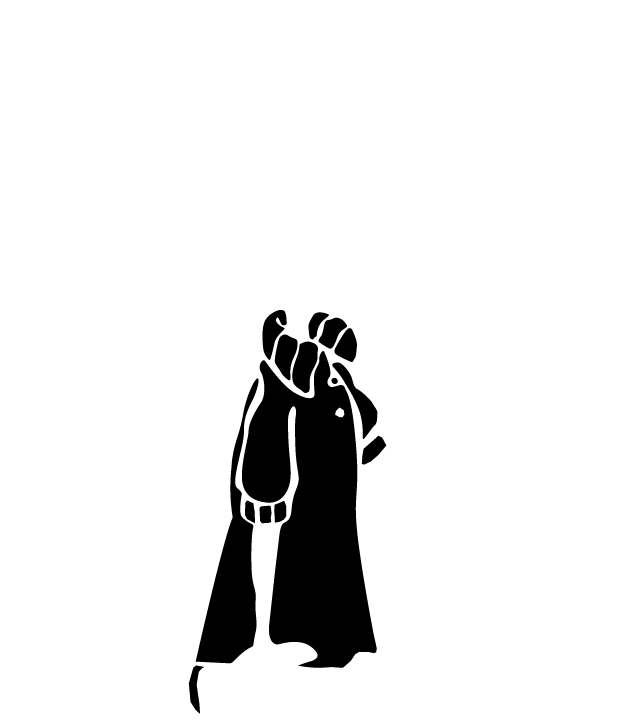
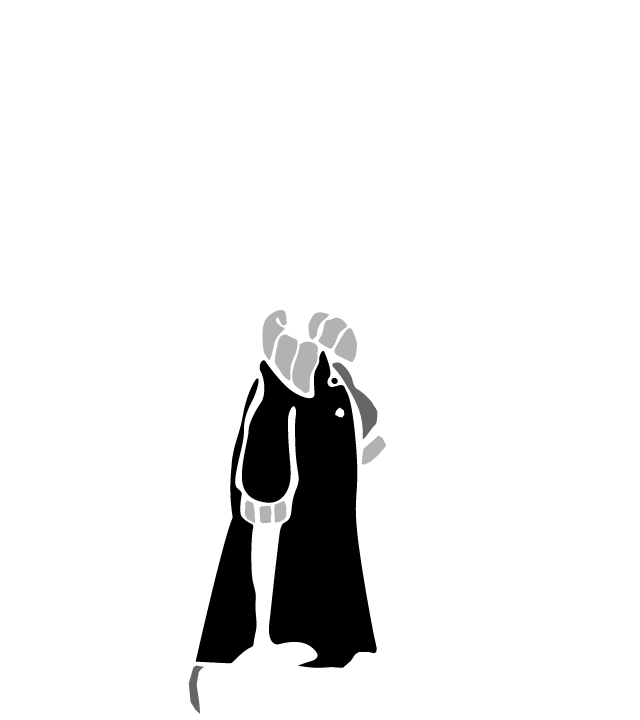
251225🎄 コーディネータ Edd 新貨幣追加

Changed region(s): [[0.4062, 0.4278, 0.625, 0.6417], [0.375, 0.7028, 0.4688, 0.7333], [0.2812, 0.9167, 0.3125, 1.0]]

diff --git a/coordinator/assets/css/style-eddA.css b/coordinator/assets/css/style-eddA.css
@@ -94,7 +94,8 @@
 
 .eddA .char__dollar,
 .eddA .char__yen,
-.eddA .char__euro
+.eddA .char__euro,
+.eddA .char__rupee
 {
     position: absolute;
     /* Testing Purpose Only */
@@ -126,10 +127,15 @@
     -webkit-mask-image: url(../images/eddA_euro.png);
     mask-image: url(../images/eddA_euro.png);
 }
+.eddA .char__rupee {
+    -webkit-mask-image: url(../images/eddA_rupee.png);
+    mask-image: url(../images/eddA_rupee.png);
+}
 
 .testingPurpose .eddA .char__dollar::before,
 .testingPurpose .eddA .char__yen::before,
-.testingPurpose .eddA .char__euro::before
+.testingPurpose .eddA .char__euro::before,
+.testingPurpose .eddA .char__rupee::before
  {
     content:" - Currency";
     position: absolute;
@@ -176,6 +182,7 @@
 .testingPurpose .eddA .char__dollar,
 .testingPurpose .eddA .char__yen,
 .testingPurpose .eddA .char__euro,
+.testingPurpose .eddA .char__rupee,
 .testingPurpose .eddA .char__printer {
     mask: none !important;
     width: 20px !important;
@@ -191,7 +198,9 @@
 }
 .testingPurpose .eddA .char__dollar,
 .testingPurpose .eddA .char__yen,
-.testingPurpose .eddA .char__euro {
+.testingPurpose .eddA .char__euro,
+.testingPurpose .eddA .char__rupee
+ {
     top: 60px;
 }
 .testingPurpose .eddA .char__printer {

diff --git a/coordinator/assets/js/main.js b/coordinator/assets/js/main.js
@@ -206,7 +206,7 @@ class EddA extends Jonny {
         super();
         this.currency = currency;
         switch(this.currency) {
-            case 0 :
+            case 0:
                 this.img.src = "assets/images/eddA_original.webp";
                 this.createColormat('Dollar','char__dollar');
             break;
@@ -217,6 +217,10 @@ class EddA extends Jonny {
             case 2:
                 this.img.src = "assets/images/eddA_variable_euro.webp";
                 this.createColormat('Euro','char__euro');
+            break;
+            case 3:
+                this.img.src = "assets/images/eddA_variable_rupee.webp";
+                this.createColormat('Rupee','char__rupee');
             break;
         }
         // this.img.src = "assets/images/eddA_original.webp";
@@ -1149,7 +1153,7 @@ class ColorMat {
     });
     document.querySelector('.character_adder__eddA').addEventListener('click', b=>{
         b.preventDefault();
-        characters.push(new EddA(Math.floor(Math.random()*3)));
+        characters.push(new EddA(Math.floor(Math.random()*4)));
     });
     
     // Print button
